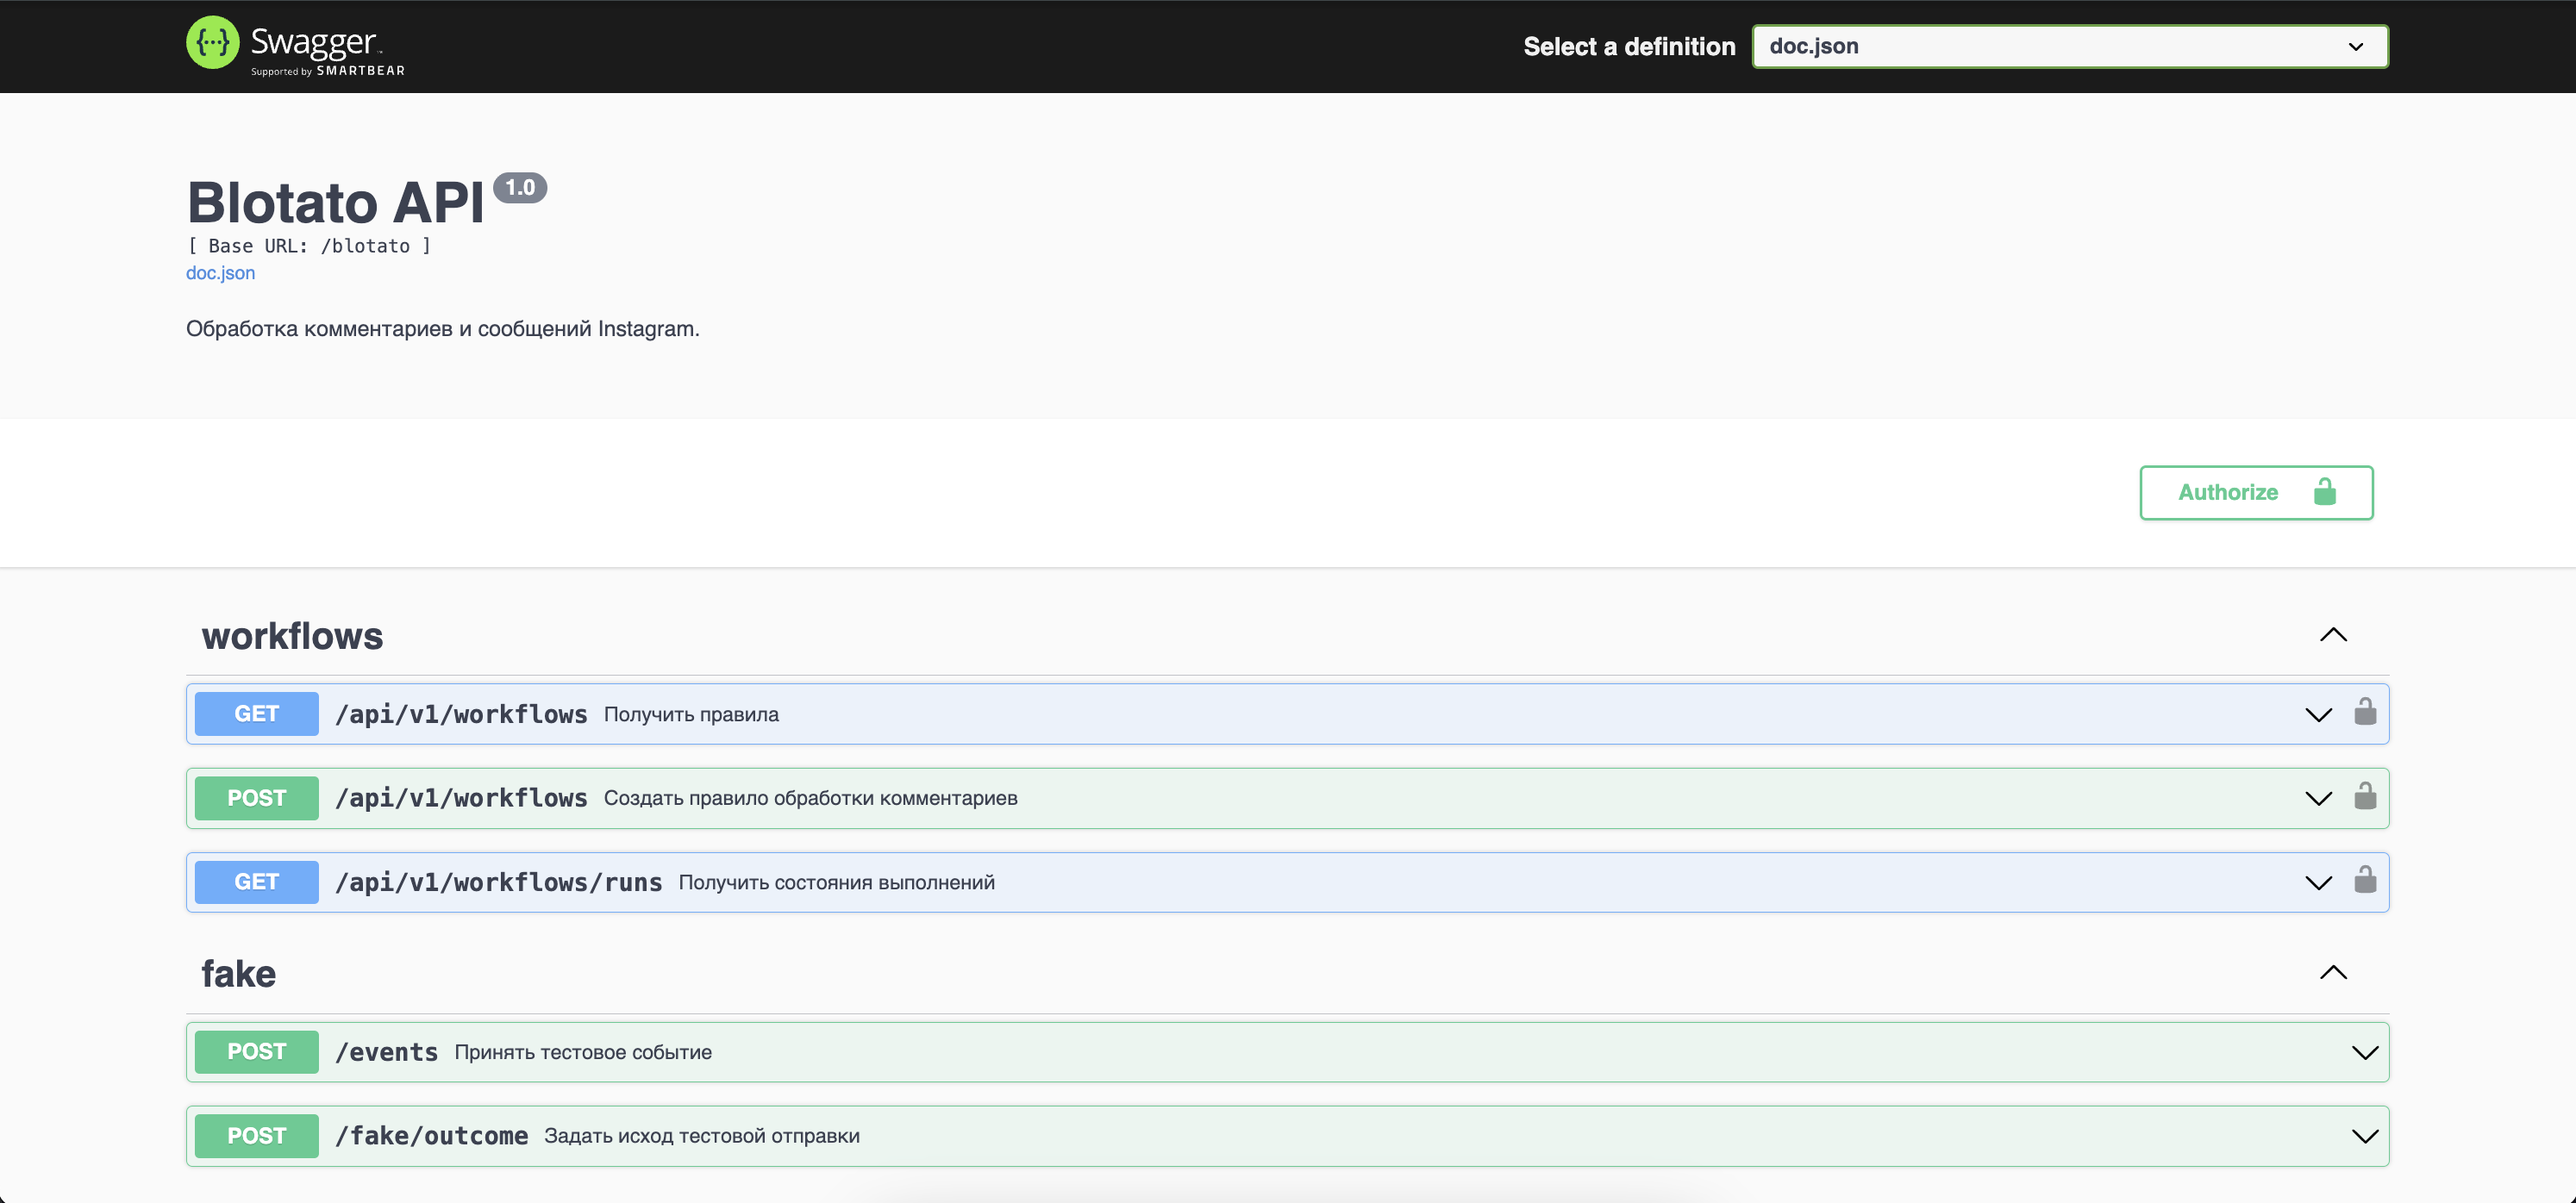
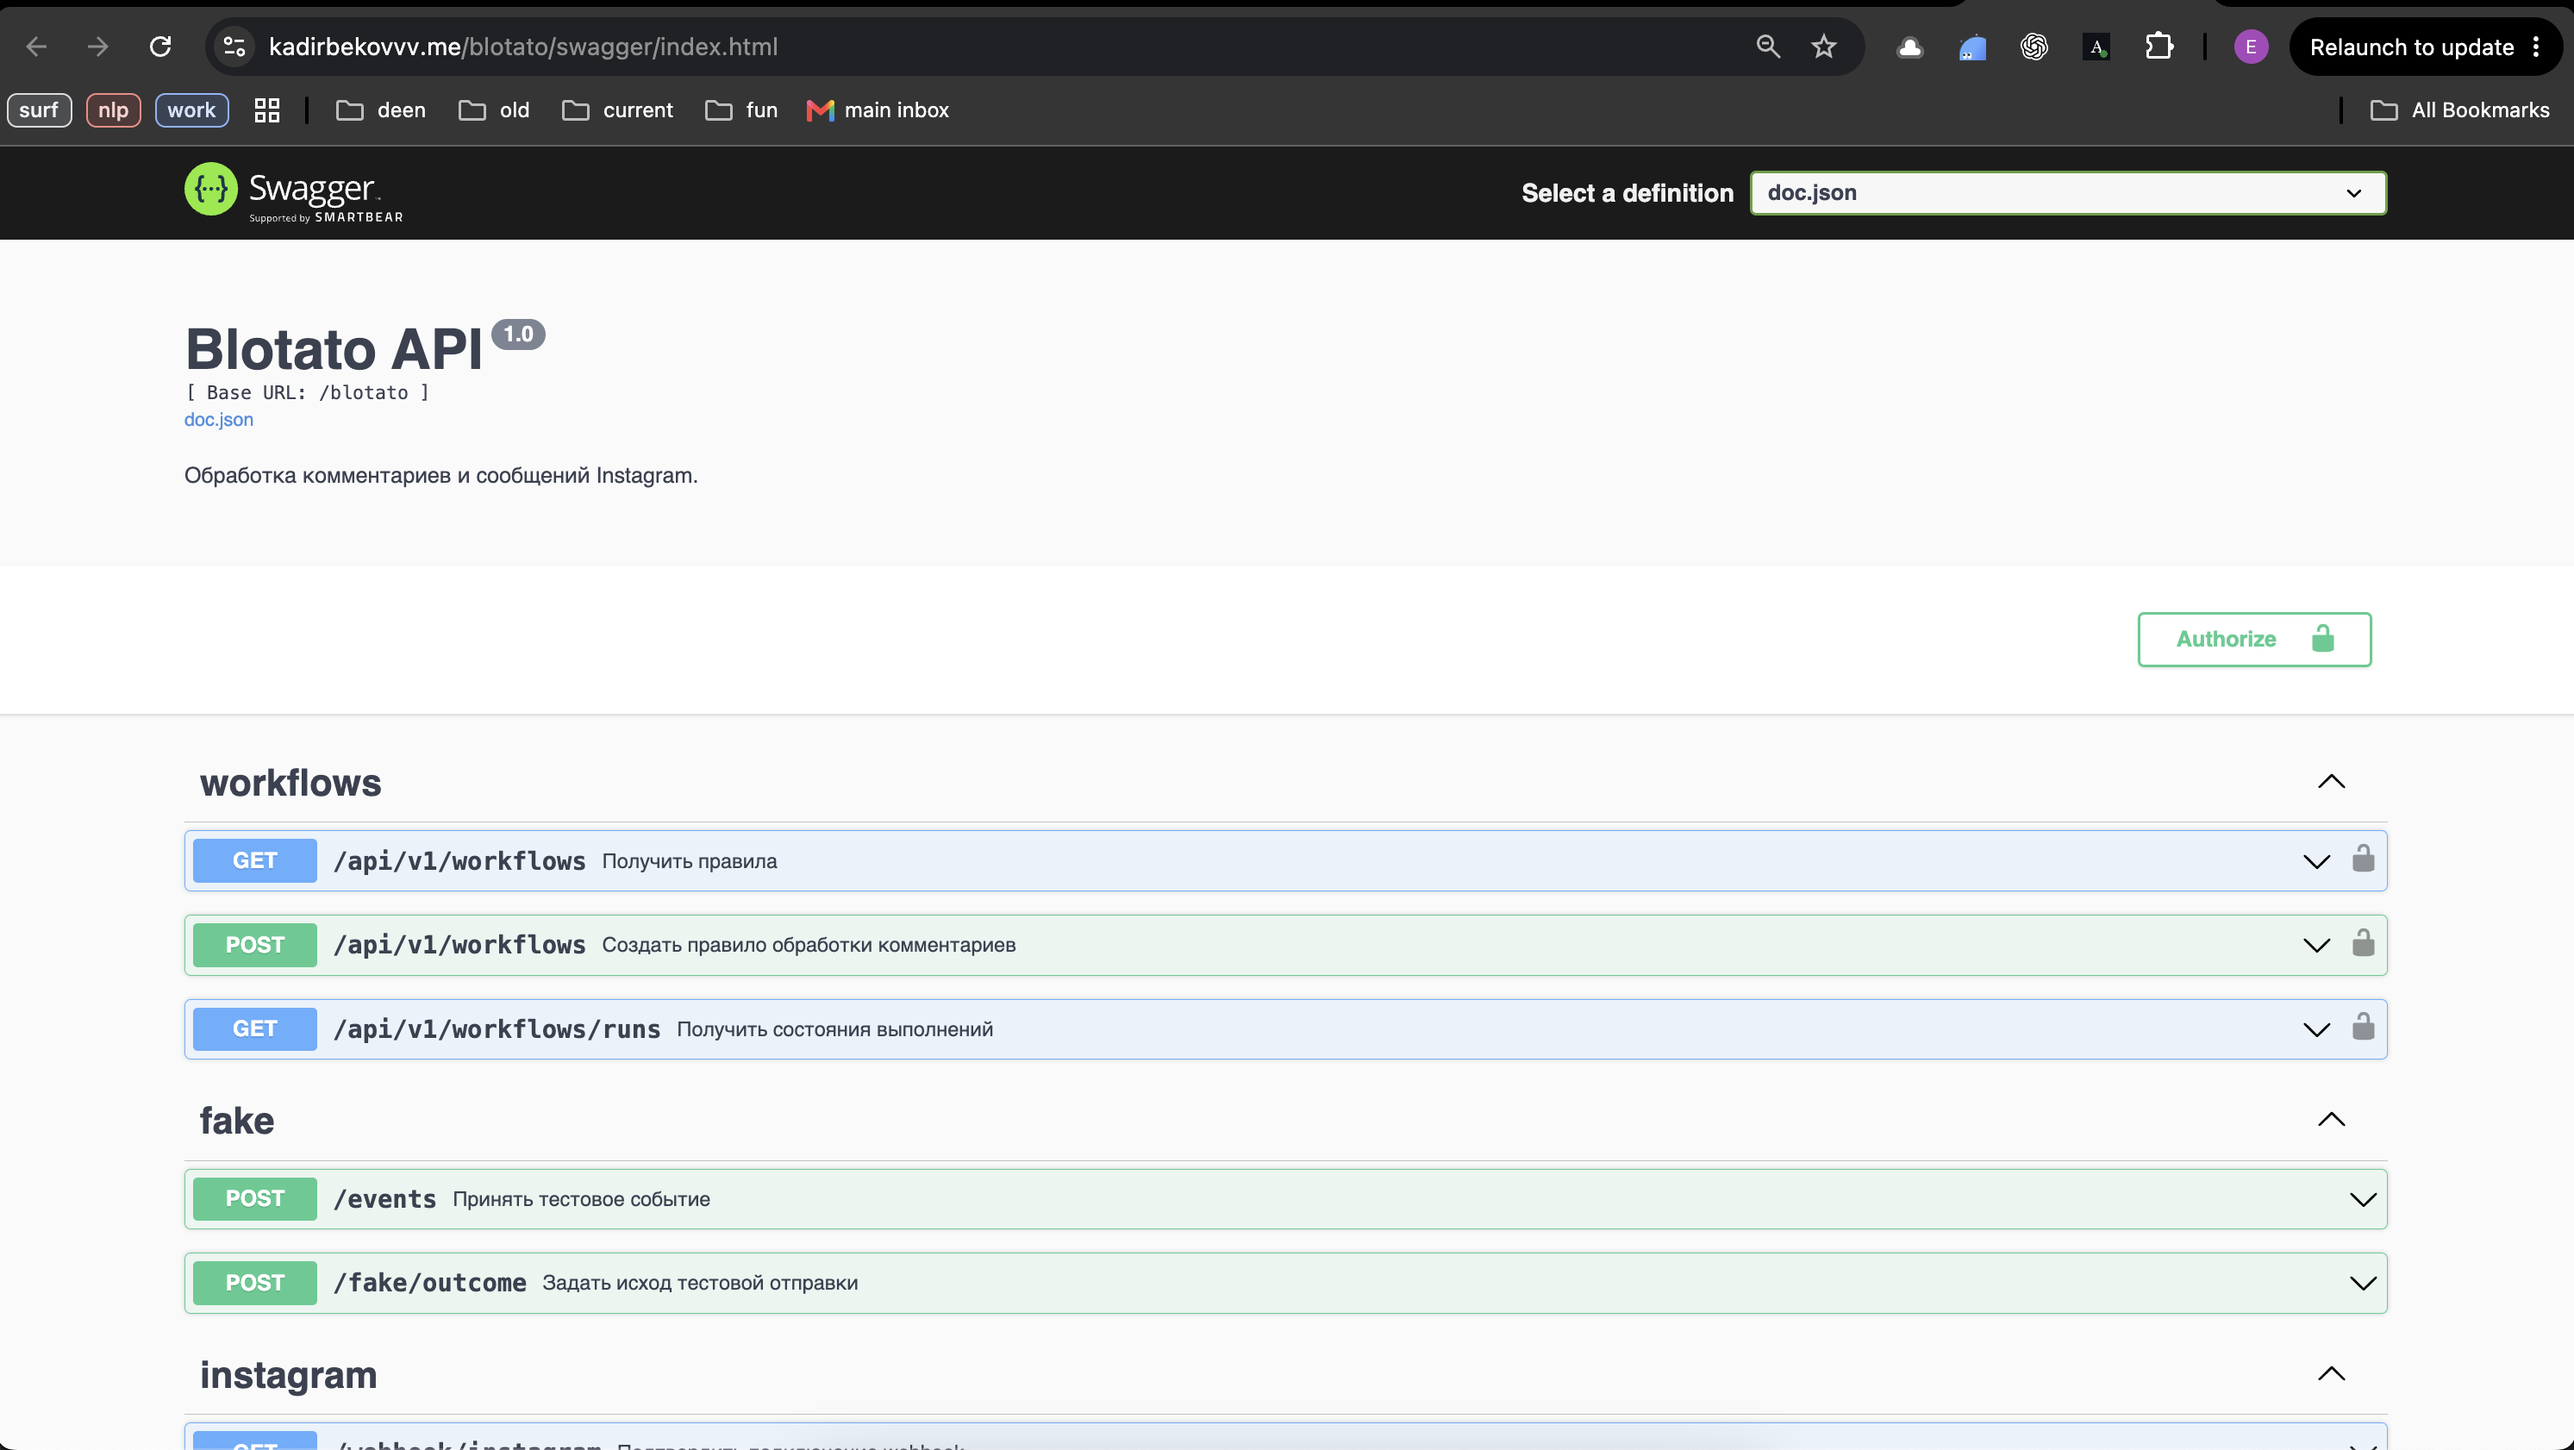
docs(readme): highlight live API access and refresh Swagger screenshot

diff --git a/README.md b/README.md
@@ -2,20 +2,27 @@
 
 ## Proof of concept
 
+**A live backend is deployed over HTTPS. You can send API requests to it or use Swagger's "Try it out".**
+
+- **Live API base URL:** `https://kadirbekovvv.me/blotato`
+- **Interactive Swagger:** [https://kadirbekovvv.me/blotato/swagger/index.html](https://kadirbekovvv.me/blotato/swagger/index.html)
+- **API specification:** [https://kadirbekovvv.me/blotato/swagger/doc.json](https://kadirbekovvv.me/blotato/swagger/doc.json)
+- **How to test:** [public checks](docs/tasks/2026-1029-plan-verification.md#public-checks) and [complete local walkthrough](docs/tasks/2026-1029-plan-verification.md#full-scenario)
+
+With administrator access, use `GET` / `POST /api/v1/workflows` to list/create rules and `GET /api/v1/workflows/runs` to inspect execution state. Prefix these paths with the API base URL above. Request `BLOTATO_ADMIN_TOKEN` from the author privately and enter `Bearer <token>` in Swagger's Authorize dialog. Without it, management endpoints return `401`.
+
 Implemented: `pricing` comment → public reply **"Sent you a DM!"** → private reply asking for an email → persisted wait → email response → DM with a link.
 
-- [Swagger UI](https://kadirbekovvv.me/blotato/swagger/index.html)
-- [Swagger specification](https://kadirbekovvv.me/blotato/swagger/doc.json)
 - [Architecture, data model and execution diagrams](docs/tasks/2026-1028-plan-start.md#schemas)
 - [Original assignment](docs/tasks/2026-1028-plan-start.md#scope) · [Repository](https://github.com/doxanocap/blotato)
 
 **Jev email intent:** optional classification of the intent in replies containing an email address. The feature exists; real model quality has not been measured. `OPENROUTER_API_KEY` is required at startup; `BLOTATO_EMAIL_INTENT_ENABLED` separately enables classification. See [Jev verification](docs/tasks/2026-1029-plan-verification.md#jev) for the full procedure.
 
-Administrative operations require `Authorization: Bearer <BLOTATO_ADMIN_TOKEN>`. The token is not included here. Fake routes are local-mode tools; their presence in the shared specification does not mean they are enabled on the VPS. `/events` and `/fake/outcome` are not registered in the deployed Instagram mode.
+Fake routes are local-mode tools; their presence in the shared specification does not mean they are enabled on the VPS. `/events` and `/fake/outcome` are not registered in the deployed Instagram mode.
 
 ![Blotato Swagger UI](docs/assets/swagger.png)
 
-*Deployed Swagger with `/blotato` as the base path.*
+*The live Swagger UI, with its public address visible in the browser bar.*
 
 ## Live Instagram integration: stopped at business verification
 
